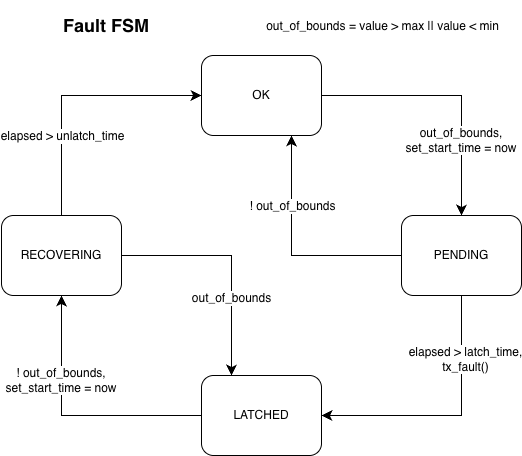
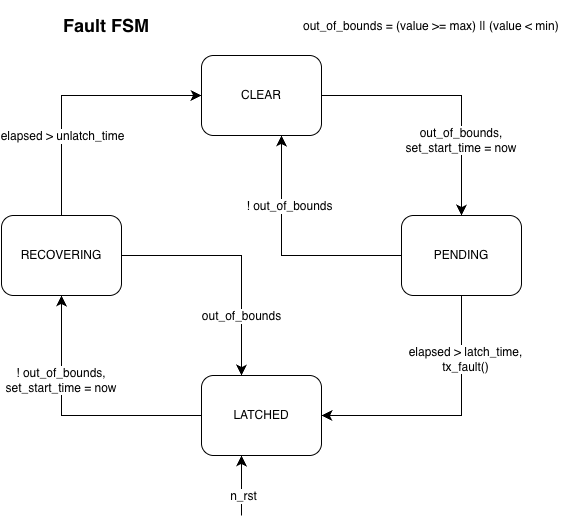
tweak faults

diff --git a/common/can_library/faults_common.c b/common/can_library/faults_common.c
@@ -38,7 +38,7 @@ bool is_clear(fault_id_t fault_id) {
 
     fault_state_t state = faults[fault_id].state;
 
-    return state == FAULT_STATE_OK || state == FAULT_STATE_PENDING;
+    return state == FAULT_STATE_CLEAR || state == FAULT_STATE_PENDING;
 }
 
 void update_fault(fault_id_t fault_id, uint16_t value) {
@@ -55,7 +55,7 @@ void update_fault(fault_id_t fault_id, uint16_t value) {
     // I know this FSM is not "mathematically pure", but it must be implemented in this way
     // to satisfy timing constraints/defensive programming
     switch (fault->state) {
-        case FAULT_STATE_OK: {
+        case FAULT_STATE_CLEAR: {
             if (is_out_of_bounds) {
                 fault->state         = FAULT_STATE_PENDING;
                 fault->start_time_ms = now;
@@ -64,7 +64,7 @@ void update_fault(fault_id_t fault_id, uint16_t value) {
         }
         case FAULT_STATE_PENDING: {
             if (!is_out_of_bounds) {
-                fault->state = FAULT_STATE_OK;
+                fault->state = FAULT_STATE_CLEAR;
                 break;
             }
 
@@ -92,7 +92,7 @@ void update_fault(fault_id_t fault_id, uint16_t value) {
             uint32_t elapsed = now - fault->start_time_ms;
             // do not update the start_time
             if (elapsed >= fault->unlatch_time_ms) {
-                fault->state = FAULT_STATE_OK;
+                fault->state = FAULT_STATE_CLEAR;
             }
             break;
         }

diff --git a/common/can_library/faults_common.h b/common/can_library/faults_common.h
@@ -19,7 +19,7 @@ typedef enum : uint8_t {
 } fault_priority_t;
 
 typedef enum : uint8_t {
-    FAULT_STATE_OK = 0,
+    FAULT_STATE_CLEAR = 0,
     FAULT_STATE_PENDING = 1,
     FAULT_STATE_LATCHED = 2,
     FAULT_STATE_RECOVERING = 3

diff --git a/docs/code_style.md b/docs/code_style.md
@@ -160,7 +160,7 @@ Additionally, the compiler standard for `firmware` is set to C23, enabling sever
     ```c
     // example enum
     typedef enum : uint8_t {
-        FAULT_STATE_OK = 0,
+        FAULT_STATE_CLEAR = 0,
         FAULT_STATE_PENDING = 1,
         FAULT_STATE_LATCHED = 2,
         FAULT_STATE_RECOVERING = 3
